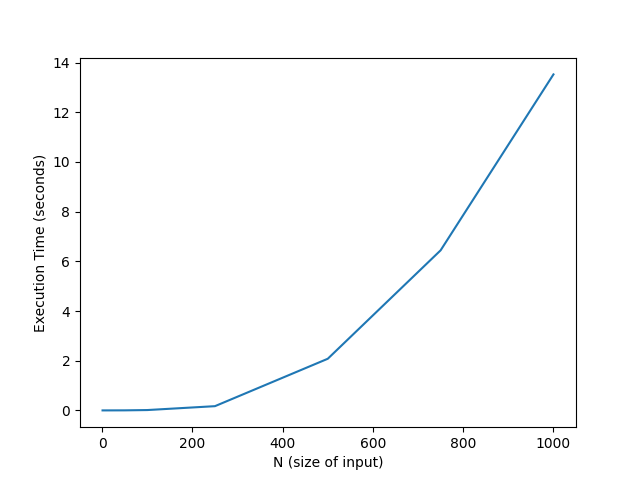
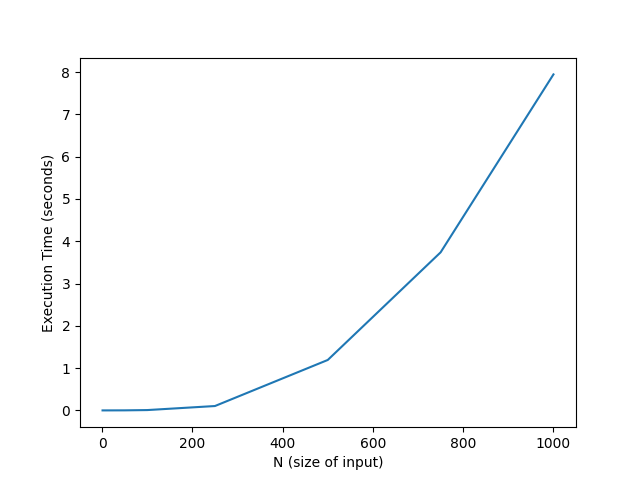
final readme touchups

diff --git a/test.py b/test.py
@@ -26,7 +26,7 @@ def run_gale_shapley_suite(args):
         end_time = time.perf_counter()
         elapsed_time = end_time - start_time
 
-        #print(f"GS Execution Time: {elapsed_time:0.5f} seconds")
+        print(f"GS Execution Time: {elapsed_time:0.5f} seconds")
     
         data[0].append(n), data[1].append(elapsed_time)
 
@@ -111,6 +111,8 @@ def run_verifier_suite(pref_path, match_path):
         end_time = time.perf_counter()
         
         elapsed_time = end_time - start_time
+        
+        print(f"Verifier Execution Time: {elapsed_time:0.5f} seconds")
         
         if(match_data and not result):
             print(f"Test with n = {n} ")

diff --git a/README.md b/README.md
@@ -12,6 +12,8 @@
 - 'src/matching/algorithm.py' => Contains the implementation of G-S algorithm
 - 'src/verify/verifier.py' => Performs Validity + Stability checks
 - 'src/graph/grapher.py' => Utiliy functions for graphing with matplotlib
+- '/prefs' => The directory containing the preference list inputs for both hospitals and students, with all files named with {'n'.txt}.
+- '/matches' => The directory containing the output to the respective preference list input with the same naming convention as the file in /prefs
 
 ## Requirements/Dependencies
 
@@ -116,3 +118,5 @@ Gale Shapley Algorithm input size vs execution time graph
 
 Verifier Algorithm input size vs execution time graph
 ![Verifier Algorithm input size vs execution time graph](verifier_execution_time.png)
+
+- Based on both line graphs above, the matcher and the verifier running times increase as n increases, pointing towards a polynomial growth. By analyzing the growth rate of the two, we can see that the verifier increases much steeper than the matcher. This suggests that the verifier is closer to a cubic growth (O(n^3)) while the Gale Shapley matching algorithm is closer to O(n^2). This is caused because for each hospital, the verifier considered up to (n-1) students as potential blocking pairs, which adds up to n^2 candidate pairs. Additionally, the verifier uses list.index() which is an O(n) operation leading to a total of O(n^3), hence leading to a steeper curve. Finally, to support this claim, we see that by the time n reaches 1000, the execution time gets to about 0.43 seconds in the Gale-Shapley algorithm, while in the verifier it gets to around 7.94 seconds, indicating quicker growth.
